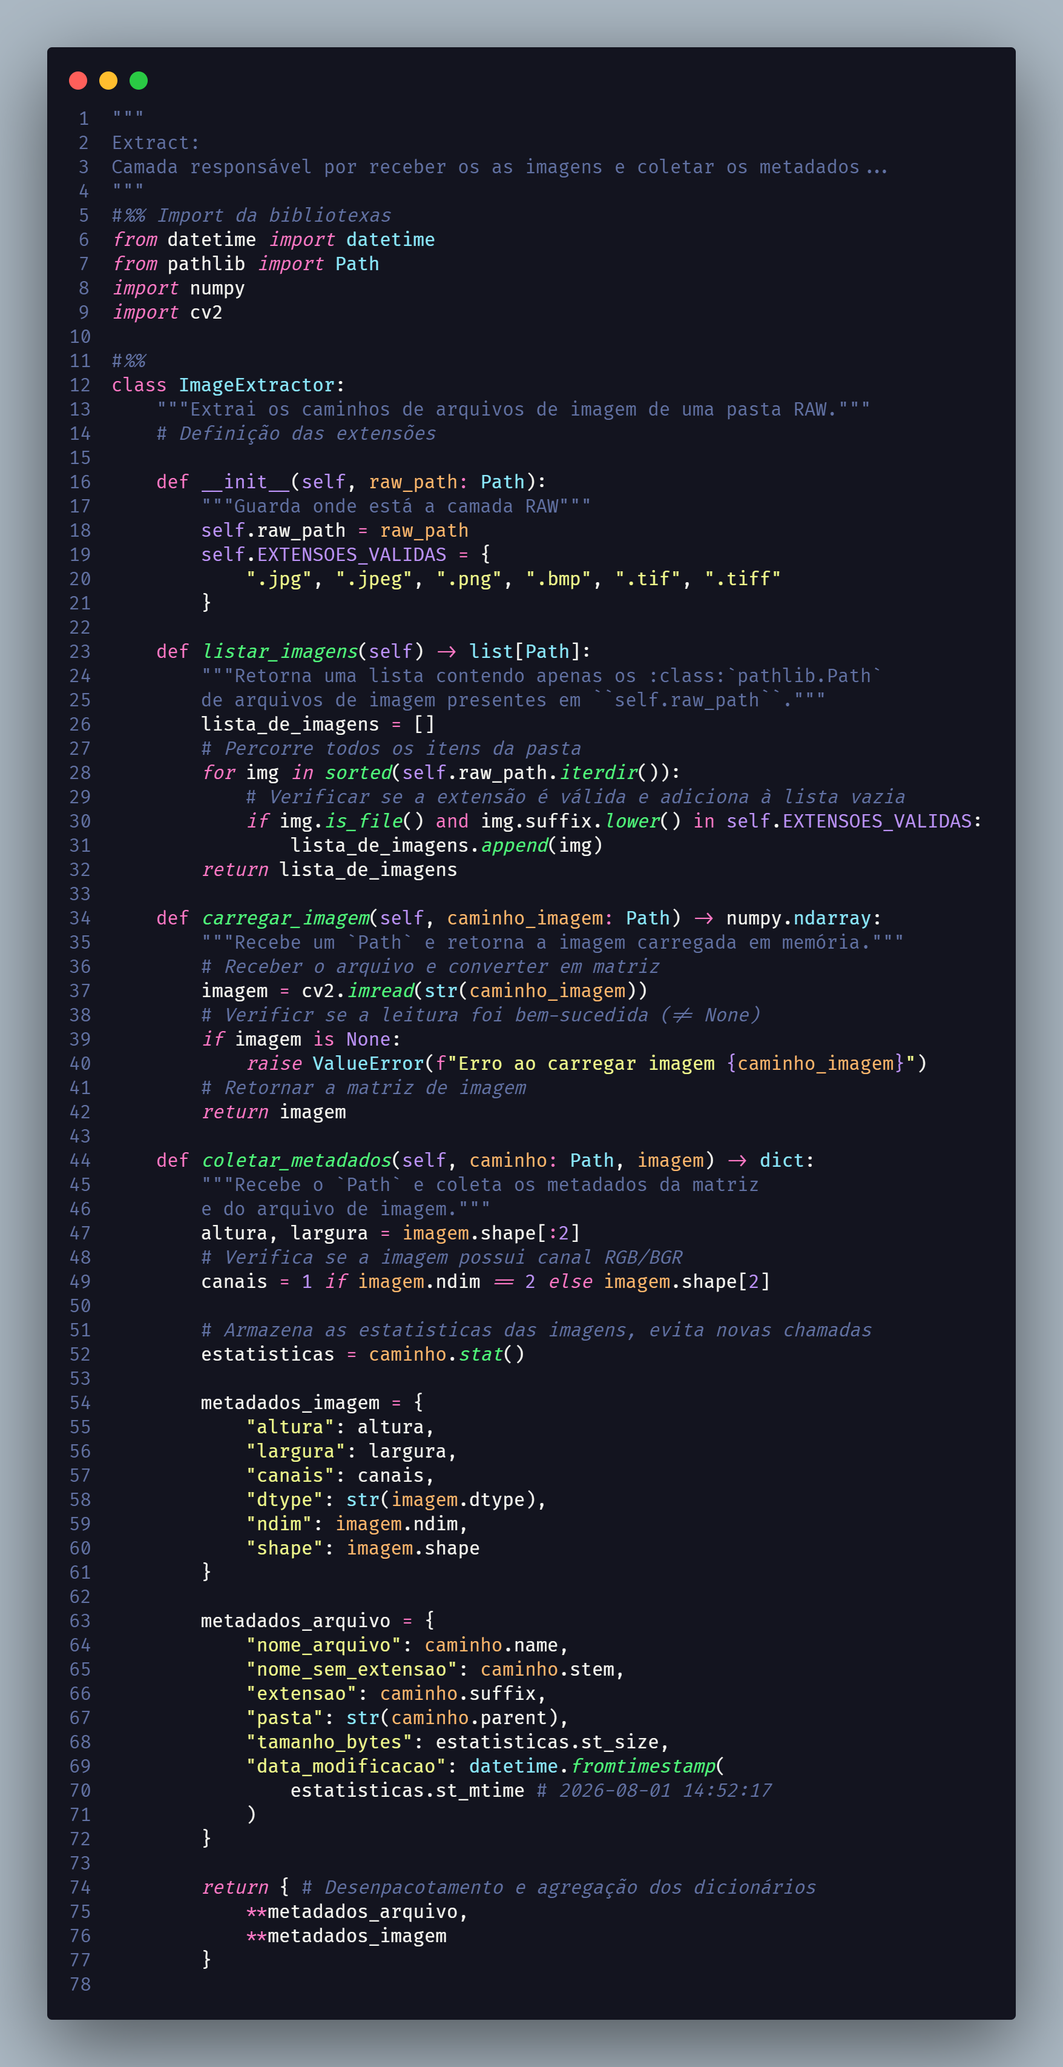
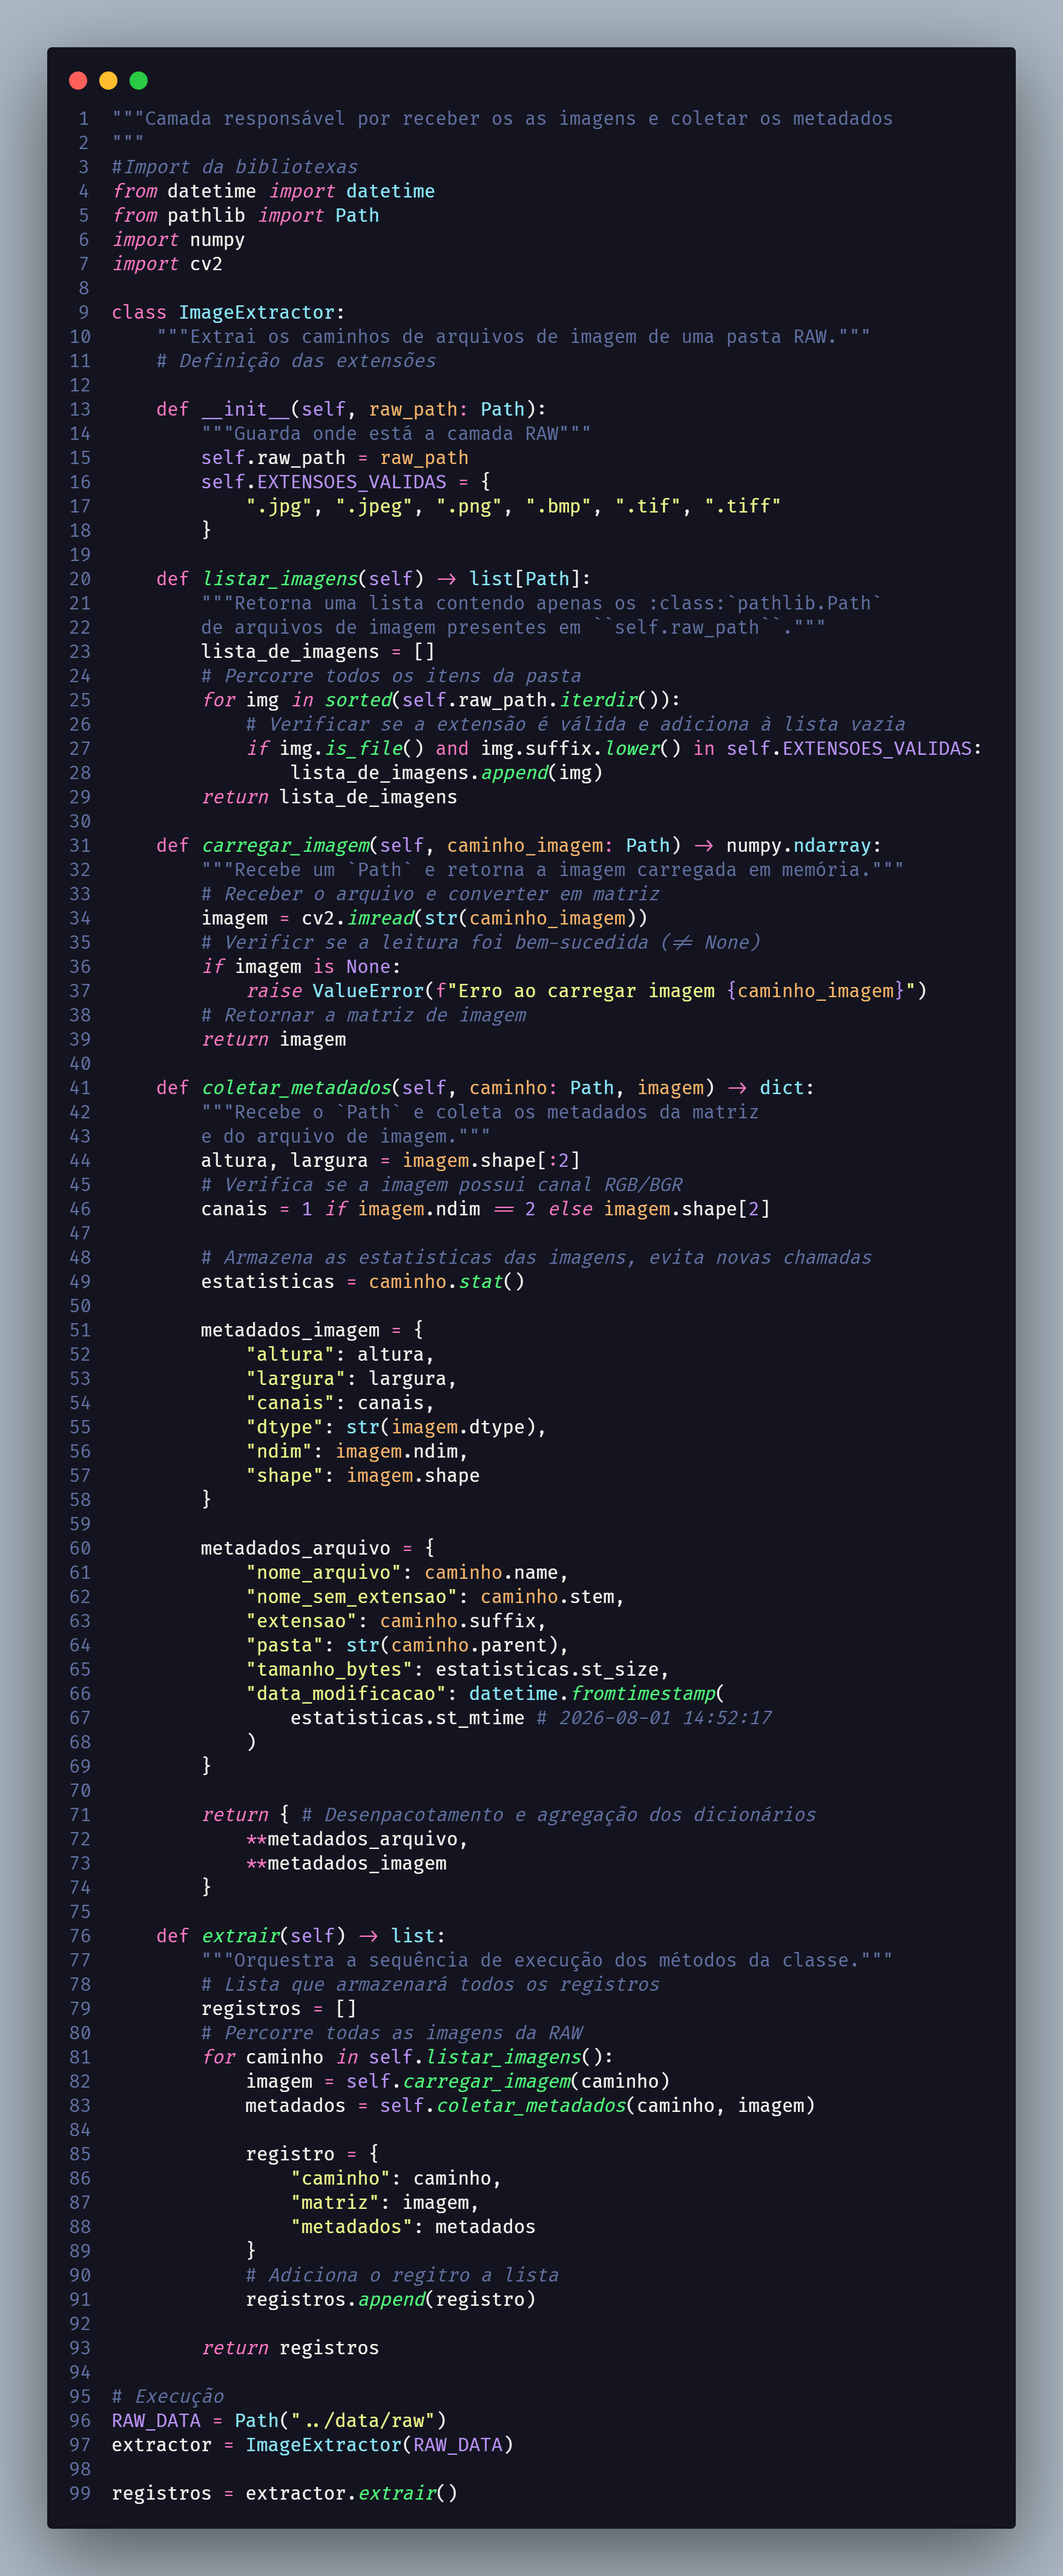
Implementação da camada de transform

Changed region(s): [[0.0615, 0.0, 0.9533, 0.9941], [0.6458, 0.2175, 0.7073, 0.2485], [0.5843, 0.7456, 0.615, 0.7767]]

diff --git a/src/extract.py b/src/extract.py
@@ -1,14 +1,11 @@
+"""Camada responsável por receber os as imagens e coletar os metadados
 """
-Extract:
-Camada responsável por receber os as imagens e coletar os metadados...
-"""
-#%% Import da bibliotexas
+#Import da bibliotexas
 from datetime import datetime
 from pathlib import Path
 import numpy
 import cv2
 
-#%%
 class ImageExtractor:
     """Extrai os caminhos de arquivos de imagem de uma pasta RAW."""
     # Definição das extensões
@@ -78,10 +75,8 @@ class ImageExtractor:
 
     def extrair(self) -> list:
         """Orquestra a sequência de execução dos métodos da classe."""
-
         # Lista que armazenará todos os registros
         registros = []
-
         # Percorre todas as imagens da RAW
         for caminho in self.listar_imagens():
             imagem = self.carregar_imagem(caminho)
@@ -92,16 +87,14 @@ class ImageExtractor:
                 "matriz": imagem,
                 "metadados": metadados
             }
-
             # Adiciona o regitro a lista
             registros.append(registro)
 
         return registros
 
-#%% Execução da Classe
-RAW_DATA = Path("../data/raw")
-extractor = ImageExtractor(RAW_DATA)
+# Execução
+if __name__=="__main__":
 
-#%%
-registros = extractor.extrair()
-
+    RAW_DATA = Path("../data/raw")
+    extractor = ImageExtractor(RAW_DATA)
+    registros = extractor.extrair()

diff --git a/src/transform.py b/src/transform.py
@@ -1,0 +1,32 @@
+"""Camada responsável por realzar o processamento das imagens
+"""
+
+class ImageTransform:
+    """Aplica as transformações da imagem para reproduzir o efeito Pencil Sketch."""
+
+    def converter_para_cinza(self) -> dict:
+        """Recebe um `numpy.ndarray` e converte para a escala de cinza"""
+        ...
+
+    def inverter_imagem(self):
+        ...
+
+    def aplicar_desfoque(self):
+        ...
+
+    def criar_pencil_sketch(self):
+        ...
+
+    def transformar(self):
+        """Orquestrar a sequência de execuções"""
+        ...
+
+#%%
+#! Exemplo de execução do Fluxo
+"""
+extractor = ImageExtractor(RAW_DATA)
+dados = extractor.extrair()
+
+transform = ImageTransform()
+resultado = transform.transformar(dados)
+"""
